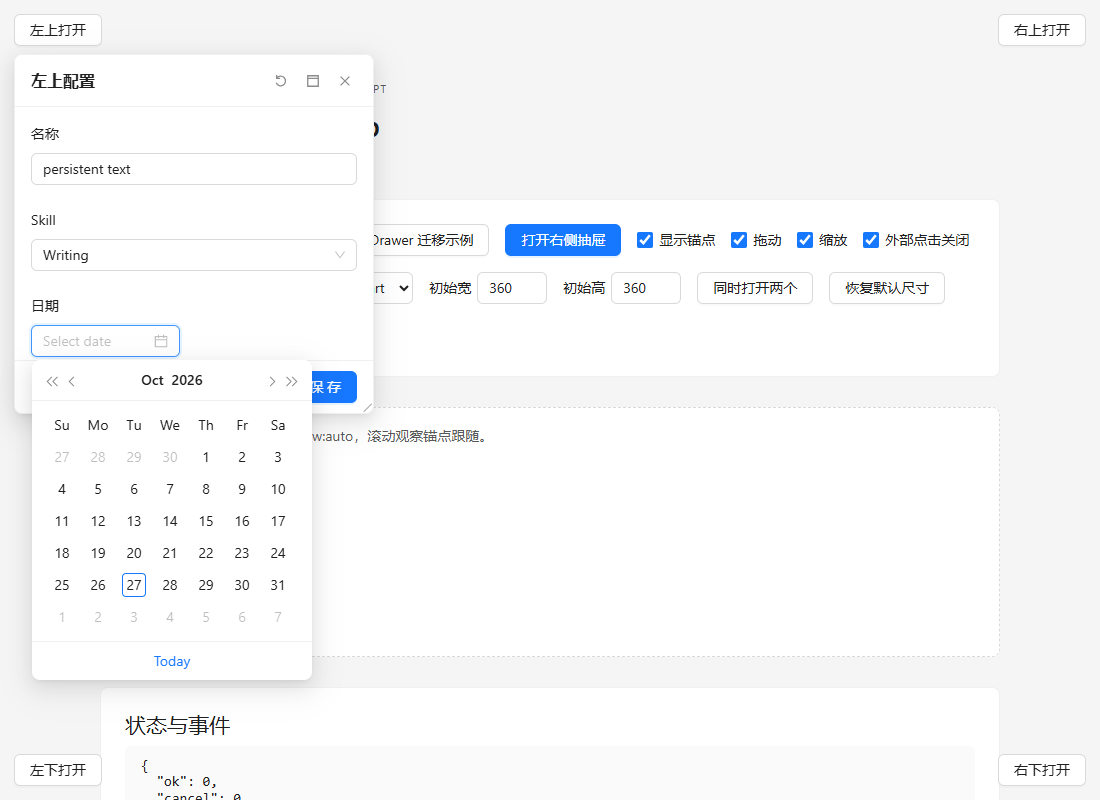
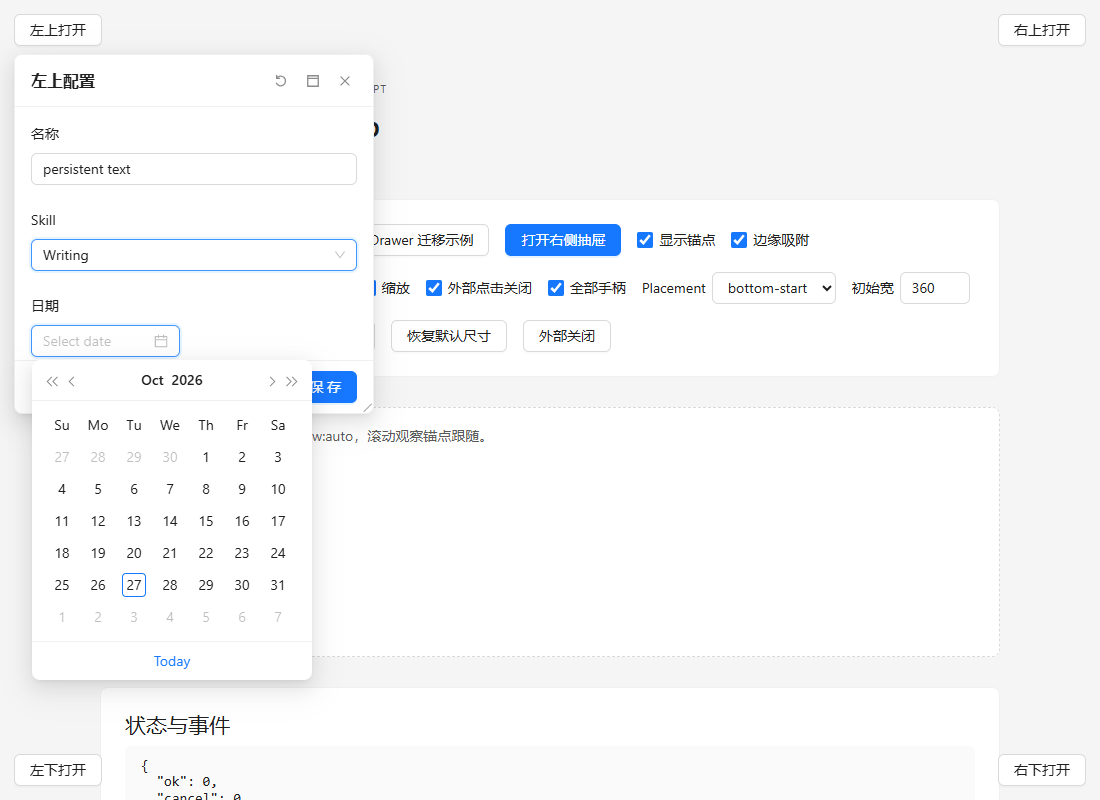
feat: add configurable viewport edge snapping

diff --git a/src/components/DraggablePopup/__tests__/geometry.spec.ts b/src/components/DraggablePopup/__tests__/geometry.spec.ts
@@ -4,6 +4,7 @@ import {
   resizeRect,
   viewportRect,
   dockRight,
+  snapRectToViewport,
 } from "../composables/geometry";
 import type { ResizeHandle } from "../types";
 const limits = {
@@ -14,6 +15,81 @@ const limits = {
   boundaryPadding: 8,
 };
 describe("viewport geometry", () => {
+  it.each([
+    [
+      { x: 20, y: 200 },
+      { x: 8, y: 200 },
+    ],
+    [
+      { x: 720, y: 200 },
+      { x: 732, y: 200 },
+    ],
+    [
+      { x: 200, y: 20 },
+      { x: 200, y: 8 },
+    ],
+    [
+      { x: 200, y: 500 },
+      { x: 200, y: 512 },
+    ],
+  ])("snaps near a viewport edge while preserving size", (input, position) => {
+    expect(
+      snapRectToViewport(
+        { ...input, width: 360, height: 280 },
+        limits,
+        1100,
+        800,
+        16,
+      ),
+    ).toEqual({ ...position, width: 360, height: 280 });
+  });
+  it("snaps both corner axes and releases as soon as raw geometry leaves the threshold", () => {
+    expect(
+      snapRectToViewport(
+        { x: 20, y: 20, width: 360, height: 280 },
+        limits,
+        1100,
+        800,
+        16,
+      ),
+    ).toEqual({ x: 8, y: 8, width: 360, height: 280 });
+    expect(
+      snapRectToViewport(
+        { x: 40, y: 40, width: 360, height: 280 },
+        limits,
+        1100,
+        800,
+        16,
+      ),
+    ).toEqual({ x: 40, y: 40, width: 360, height: 280 });
+  });
+  it("honors the configured threshold, normalizes invalid values, and picks the nearest edge", () => {
+    const r = { x: 30, y: 40, width: 360, height: 280 };
+    expect(snapRectToViewport(r, limits, 1100, 800, 16)).toEqual(r);
+    expect(snapRectToViewport(r, limits, 1100, 800, 24).x).toBe(8);
+    expect(snapRectToViewport(r, limits, 1100, 800, -1)).toEqual(r);
+    expect(snapRectToViewport(r, limits, 1100, 800, NaN)).toEqual(r);
+    expect(
+      snapRectToViewport(
+        { x: 12, y: 40, width: 280, height: 280 },
+        limits,
+        320,
+        568,
+        30,
+      ).x,
+    ).toBe(8);
+  });
+  it("keeps oversized panels inside a tiny viewport without negative dimensions", () => {
+    expect(
+      snapRectToViewport(
+        { x: 10, y: 10, width: 500, height: 500 },
+        limits,
+        100,
+        100,
+        16,
+      ),
+    ).toEqual({ x: 8, y: 8, width: 84, height: 84 });
+  });
   it("docks at the right boundary and uses available height within configured limits", () => {
     expect(
       dockRight({ x: 0, y: 0, width: 420, height: 300 }, limits, 1100, 800),

diff --git a/tests/popup.spec.ts b/tests/popup.spec.ts
@@ -511,3 +511,59 @@ test("drawer height grows beyond its initial size and 800px, regrows after shrin
   await expect.poll(async () => (await box(p)).height).toBe(784);
   await within(p, page);
 });
+test("drag snapping covers all edges, corners and releases without position drift", async ({
+  page,
+}) => {
+  await page.getByTestId("trigger-0").click();
+  const p = panel(page);
+  await within(p, page);
+  async function moveTo(x: number, y: number) {
+    const r = await box(p);
+    await drag(page, p.locator(".draggable-popup__title"), x - r.x, y - r.y);
+  }
+  for (const [x, y, expectedX, expectedY] of [
+    [20, 200, 8, 200],
+    [720, 200, 732, 200],
+    [300, 20, 300, 8],
+    [300, 420, 300, 432],
+    [20, 20, 8, 8],
+    [200, 200, 200, 200],
+  ]) {
+    await moveTo(x!, y!);
+    const r = await box(p);
+    expect(r.x).toBeCloseTo(expectedX!, 0);
+    expect(r.y).toBeCloseTo(expectedY!, 0);
+    expect(r.width).toBe(360);
+    expect(r.height).toBe(360);
+  }
+  await expect(p).toHaveAttribute("data-mode", "detached");
+  await within(p, page);
+});
+test("snap distance and disabling snapping are configurable in the Demo", async ({
+  page,
+}) => {
+  await page.getByTestId("snap-toggle").uncheck();
+  await page.getByTestId("trigger-0").click();
+  const p = panel(page);
+  let r = await box(p);
+  await drag(page, p.locator(".draggable-popup__title"), 20 - r.x, 200 - r.y);
+  expect((await box(p)).x).toBeCloseTo(20, 0);
+  await p.getByRole("button", { name: "关闭面板" }).click();
+  await page.getByTestId("snap-distance").fill("32");
+  await page.getByTestId("snap-toggle").check();
+  await page.getByTestId("trigger-0").click();
+  r = await box(p);
+  await drag(page, p.locator(".draggable-popup__title"), 35 - r.x, 200 - r.y);
+  expect((await box(p)).x).toBeCloseTo(8, 0);
+});
+test("right drawer uses the same corner snapping without changing its size", async ({
+  page,
+}) => {
+  await page.getByTestId("drawer-trigger").click();
+  const p = page.getByRole("dialog", { name: "右侧抽屉" });
+  await expect(p).not.toHaveClass(/dp-panel-enter-active/);
+  const r = await box(p);
+  await drag(page, p.locator(".draggable-popup__title"), 20 - r.x, 20 - r.y);
+  expect(await box(p)).toEqual({ x: 8, y: 8, width: 420, height: 520 });
+  await expect(p).toHaveAttribute("data-mode", "detached");
+});

diff --git a/src/demo/App.vue b/src/demo/App.vue
@@ -29,6 +29,8 @@ const draggable = ref(true),
   outside = ref(false),
   all = ref(true),
   showAnchor = ref(true);
+const snap = ref(true),
+  snapDistance = ref(16);
 const placement = ref<Placement>("bottom-start"),
   width = ref(360),
   height = ref(360);
@@ -136,6 +138,8 @@ function popupContainer(trigger: HTMLElement) {
         :resize-handles="handles"
         :draggable="draggable"
         :resizable="resizable"
+        :snap-to-edge="snap"
+        :snap-threshold="snapDistance"
         :close-on-outside-click="outside"
         @mode-change="drawerMode = $event.mode"
         @maximize-change="drawerMaximized = $event.maximized"
@@ -171,6 +175,23 @@ function popupContainer(trigger: HTMLElement) {
         </template>
       </DraggablePopup>
       <label><input v-model="showAnchor" type="checkbox" />显示锚点</label>
+      <label
+        ><input
+          v-model="snap"
+          type="checkbox"
+          data-testid="snap-toggle"
+        />边缘吸附</label
+      >
+      <label
+        >吸附距离
+        <input
+          v-model.number="snapDistance"
+          data-testid="snap-distance"
+          type="number"
+          min="0"
+          style="width: 70px"
+        />px</label
+      >
       <label><input v-model="draggable" type="checkbox" />拖动</label
       ><label><input v-model="resizable" type="checkbox" />缩放</label
       ><label
@@ -253,6 +274,8 @@ function popupContainer(trigger: HTMLElement) {
                 :height="height"
                 :draggable="draggable"
                 :resizable="resizable"
+                :snap-to-edge="snap"
+                :snap-threshold="snapDistance"
                 :close-on-outside-click="outside"
                 :resize-handles="all ? handles : ['br']"
                 @open="log(i, 'open')"

diff --git a/src/components/DraggablePopup/__tests__/DraggablePopup.spec.ts b/src/components/DraggablePopup/__tests__/DraggablePopup.spec.ts
@@ -24,6 +24,45 @@ afterEach(() => {
   vi.clearAllMocks();
 });
 describe("DraggablePopup contract", () => {
+  it.each([
+    { snapToEdge: true, keepInViewport: true, x: 8 },
+    { snapToEdge: false, keepInViewport: true, x: 20 },
+    { snapToEdge: true, keepInViewport: false, x: 20 },
+  ])(
+    "applies drag snapping only when enabled with viewport boundaries: %o",
+    async (options) => {
+      const w = mount(Popup, {
+        props: {
+          modelValue: true,
+          snapToEdge: options.snapToEdge,
+          keepInViewport: options.keepInViewport,
+        },
+        attachTo: document.body,
+      });
+      await flushPromises();
+      const p = document.querySelector<HTMLElement>(".draggable-popup")!;
+      vi.spyOn(p, "getBoundingClientRect").mockReturnValue({
+        x: 200,
+        y: 200,
+        width: 360,
+        height: 280,
+        top: 200,
+        left: 200,
+        right: 560,
+        bottom: 480,
+        toJSON: () => ({}),
+      });
+      pointer(p.querySelector("header")!, "pointerdown", 200, 200);
+      pointer(window, "pointermove", 20, 200);
+      expect(w.vm.getRect().x).toBe(options.x);
+      pointer(window, "pointermove", 40, 200);
+      expect(w.vm.getRect().x).toBe(40);
+      pointer(window, "pointerup", 40, 200);
+      expect(w.emitted("drag-end")).toHaveLength(1);
+      expect(w.emitted("drag-end")![0]![0]).toEqual(w.vm.getRect());
+      w.unmount();
+    },
+  );
   it("still detects removal of an anchored trigger while positioning is paused by maximize", async () => {
     const w = mount(Popup, {
       props: { modelValue: true },

diff --git a/src/components/DraggablePopup/composables/geometry.ts b/src/components/DraggablePopup/composables/geometry.ts
@@ -36,6 +36,40 @@ export function constrain(
     y: clamp(r.y, b.p, vh - b.p - height),
   };
 }
+/** Snap from the raw pointer-derived rectangle, never from the previous snapped
+ * rectangle, so moving away immediately releases the edge without accumulated drift. */
+export function snapRectToViewport(
+  r: PopupRect,
+  l: Limits,
+  vw: number,
+  vh: number,
+  threshold: number,
+): PopupRect {
+  const result = constrain(r, l, vw, vh),
+    p = bounds(l, vw, vh).p;
+  const distance = Number.isFinite(threshold) ? Math.max(0, threshold) : 0;
+  const right = vw - p - result.width,
+    bottom = vh - p - result.height;
+  const xLeft = result.x - p,
+    xRight = right - result.x,
+    yTop = result.y - p,
+    yBottom = bottom - result.y;
+  return {
+    ...result,
+    x:
+      Math.min(xLeft, xRight) <= distance
+        ? xLeft <= xRight
+          ? p
+          : right
+        : result.x,
+    y:
+      Math.min(yTop, yBottom) <= distance
+        ? yTop <= yBottom
+          ? p
+          : bottom
+        : result.y,
+  };
+}
 /** Maximizing intentionally ignores normal min/max dimensions. */
 export function viewportRect(
   padding: number,

diff --git a/src/components/DraggablePopup/DraggablePopup.vue b/src/components/DraggablePopup/DraggablePopup.vue
@@ -26,6 +26,7 @@ import {
   resizeRect,
   dockRect,
   viewportRect,
+  snapRectToViewport,
 } from "./composables/geometry";
 import "./styles.css";
 import RenderContent from "./RenderContent";
@@ -69,6 +70,8 @@ const props = withDefaults(defineProps<PopupProps>(), {
   draggable: true,
   resizable: true,
   keepInViewport: true,
+  snapToEdge: true,
+  snapThreshold: 16,
   closeOnOutsideClick: false,
   closeOnEsc: true,
   teleportTo: "body",
@@ -631,7 +634,20 @@ function start(e: PointerEvent, handle?: ResizeHandle) {
     else {
       rect.x = initial.x + event.clientX - x;
       rect.y = initial.y + event.clientY - y;
-      if (props.keepInViewport) clip();
+      if (props.keepInViewport) {
+        if (props.snapToEdge)
+          Object.assign(
+            rect,
+            snapRectToViewport(
+              rect,
+              limits.value,
+              window.innerWidth,
+              window.innerHeight,
+              props.snapThreshold,
+            ),
+          );
+        else clip();
+      }
     }
     if (kind === "drag") emit("drag", getRect());
     else emit("resize", getRect());

diff --git a/src/components/DraggablePopup/types.ts b/src/components/DraggablePopup/types.ts
@@ -77,6 +77,8 @@ export interface PopupProps {
   resizable?: boolean;
   resizeHandles?: ResizeHandle[];
   keepInViewport?: boolean;
+  snapToEdge?: boolean;
+  snapThreshold?: number;
   closeOnOutsideClick?: boolean;
   closeOnEsc?: boolean;
   teleportTo?: string | HTMLElement;

diff --git a/src/components/DraggablePopup/README.md b/src/components/DraggablePopup/README.md
@@ -53,6 +53,8 @@ const popup = ref<PopupExpose>();
 | draggable / resizable | boolean                    | true / true                                                      |
 | resizeHandles         | ResizeHandle[]             | popup: ['br']；右侧抽屉: ['ml','tm','bm']，其他方向对应调整      |
 | keepInViewport        | boolean                    | true                                                             |
+| snapToEdge            | boolean                    | true                                                             |
+| snapThreshold         | number                     | 16px                                                             |
 | closeOnOutsideClick   | boolean                    | false                                                            |
 | closeOnEsc            | boolean                    | true                                                             |
 | teleportTo            | string 或 HTMLElement      | body                                                             |
@@ -170,6 +172,21 @@ const getPopupContainer = (trigger: HTMLElement) =>
 面板本身不裁剪 overflow，只有 body 滚动。挂载到面板而非滚动 body，可防止二级弹层被正文裁剪，且外部点击通过 composedPath 正确识别归属。对于其他 UI 库，同样需配置弹层归属。
 
 ## 样式
+
+### 视口边缘吸附
+
+三个入口默认 `snapToEdge=true`、`snapThreshold=16`（视口 CSS 像素）。拖动标题栏时，距安全边界不超过阈值即贴边，角落可同时吸附两轴；移出范围继续跟随原始指针位移，不累计吸附偏移。只移动位置，不改变尺寸或切换为 docked，也不锁定吸附后的面板。`drag`/`drag-end` 和 getRect 包含吸附后的坐标。
+
+```vue
+<DraggableDrawer
+  v-model:open="open"
+  :height="520"
+  :snap-to-edge="true"
+  :snap-threshold="24"
+/>
+```
+
+`:snap-to-edge="false"` 关闭。锚点跟随、缩放、放大和视口重裁剪不进行吸附；`keepInViewport=false` 时也不吸附。吸附位置遵循 boundaryPadding，不是屏幕外侧。两侧都在范围内时选择更近的一边；距离相同固定选择左/上，避免抖动。负数或非法阈值按 0 处理。Demo 有“边缘吸附”和“吸附距离”控制。
 
 ### 动画
 

diff --git a/docs/ACCEPTANCE.md b/docs/ACCEPTANCE.md
@@ -7,10 +7,12 @@
 | TypeScript    | npm run typecheck | 通过，无类型错误                            |
 | ESLint        | npm run lint      | 通过，无错误、无警告                        |
 | 生产构建      | npm run build     | 通过，无大文件警告                          |
-| 单元/组件测试 | npm test          | 37/37 通过，3 个测试文件                    |
-| 浏览器交互    | npm run test:e2e  | 17/17 通过，页面异常与 console.error 均为空 |
+| 单元/组件测试 | npm test          | 47/47 通过，3 个测试文件                    |
+| 浏览器交互    | npm run test:e2e  | 20/20 通过，页面异常与 console.error 均为空 |
 
 ## 逐项结果
+
+新增边缘吸附验收：默认 16px；四边、角落、移出范围、阈值设置、关闭吸附和 keepInViewport=false 均有单元验证；浏览器额外验证四边与角落、关闭/自定义阈值及抽屉复用。吸附后尺寸不变，mode=detached，drag-end 与实际 rect 一致。吸附仅作用于标题栏拖动。
 
 组件库另通过 `npm run pack:lib`：生成 ESM/CJS/CSS/d.ts 和 tarball，并在无 Antdv 的独立临时项目安装 tarball，验证两种模块导入及严格 TypeScript 消费。GitHub Actions 配置在 push、PR、workflow_dispatch 执行全部检查并上传组件包。
 

diff --git a/src/components/DraggablePopup/MIGRATION.md b/src/components/DraggablePopup/MIGRATION.md
@@ -102,6 +102,8 @@ function save() {
 
 ## 明确的迁移边界
 
+新增的 `snapToEdge`（默认 true）和 `snapThreshold`（默认 16px）属于拖动扩展 API，三个入口一致。标题栏拖动接近视口安全边界即吸附，保持尺寸和 detached 模式；可以关闭，也不会作用于缩放或覆盖 Antdv placement。详细规则见 README。
+
 - 这是新增拖动/缩放/放大能力的浮动面板，并非 Antdv 源组件包装器；基础组件没有 Antdv 运行依赖。
 - 尚未兼容 Modal 静态方法（confirm/info/useModal 等）、按钮完整 ButtonProps、自动内容高度、ConfigProvider locale 自动读取、Drawer push/level 联动、size、autofocus 和完整焦点陷阱。开关与几何过渡使用本组件的轻量动画，不复用 Antdv 的动画私有实现。复杂 footer 可直接放原 Ant Button。
 - Mask 会锁定背景滚动，但当前不提供完整焦点陷阱；关闭后仍尽量恢复 trigger 焦点。无 trigger 时需由业务管理焦点恢复。

diff --git a/README.md b/README.md
@@ -1,5 +1,7 @@
 # Vue DraggablePopup
 
+支持视口边缘吸附（默认 16px），可通过 `snapToEdge` / `snapThreshold` 配置；Demo 提供开关和吸附距离输入框。边缘及角落吸附不改变窗口尺寸，拖离边缘可继续自由移动。
+
 ## 组件打包与 GitHub Actions
 
 ```sh
